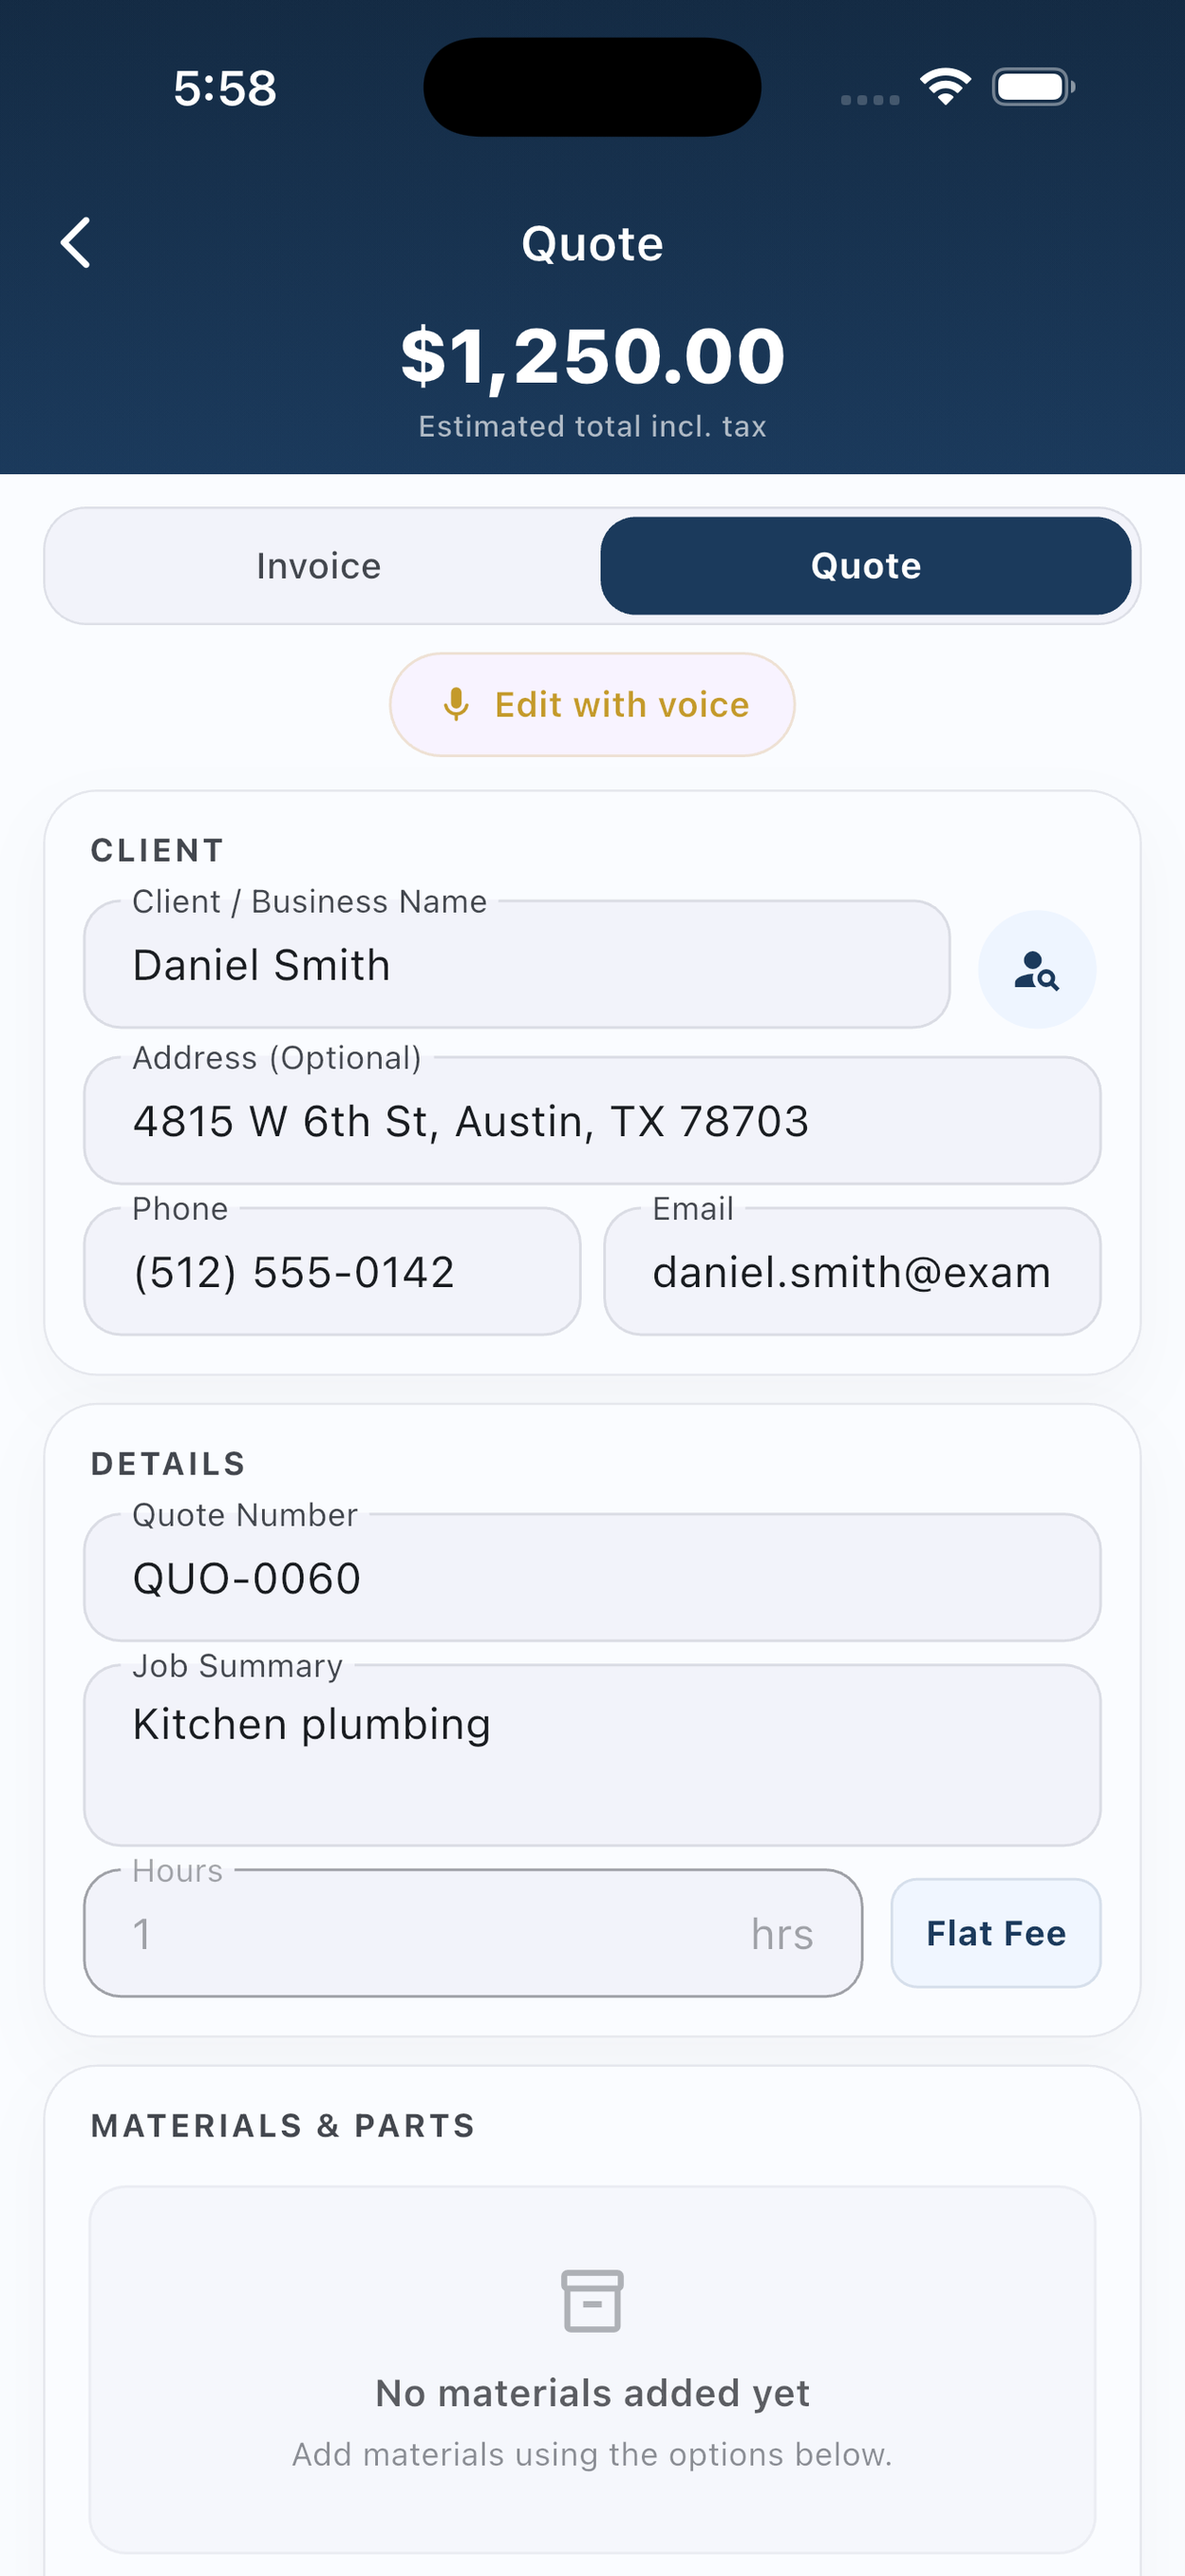
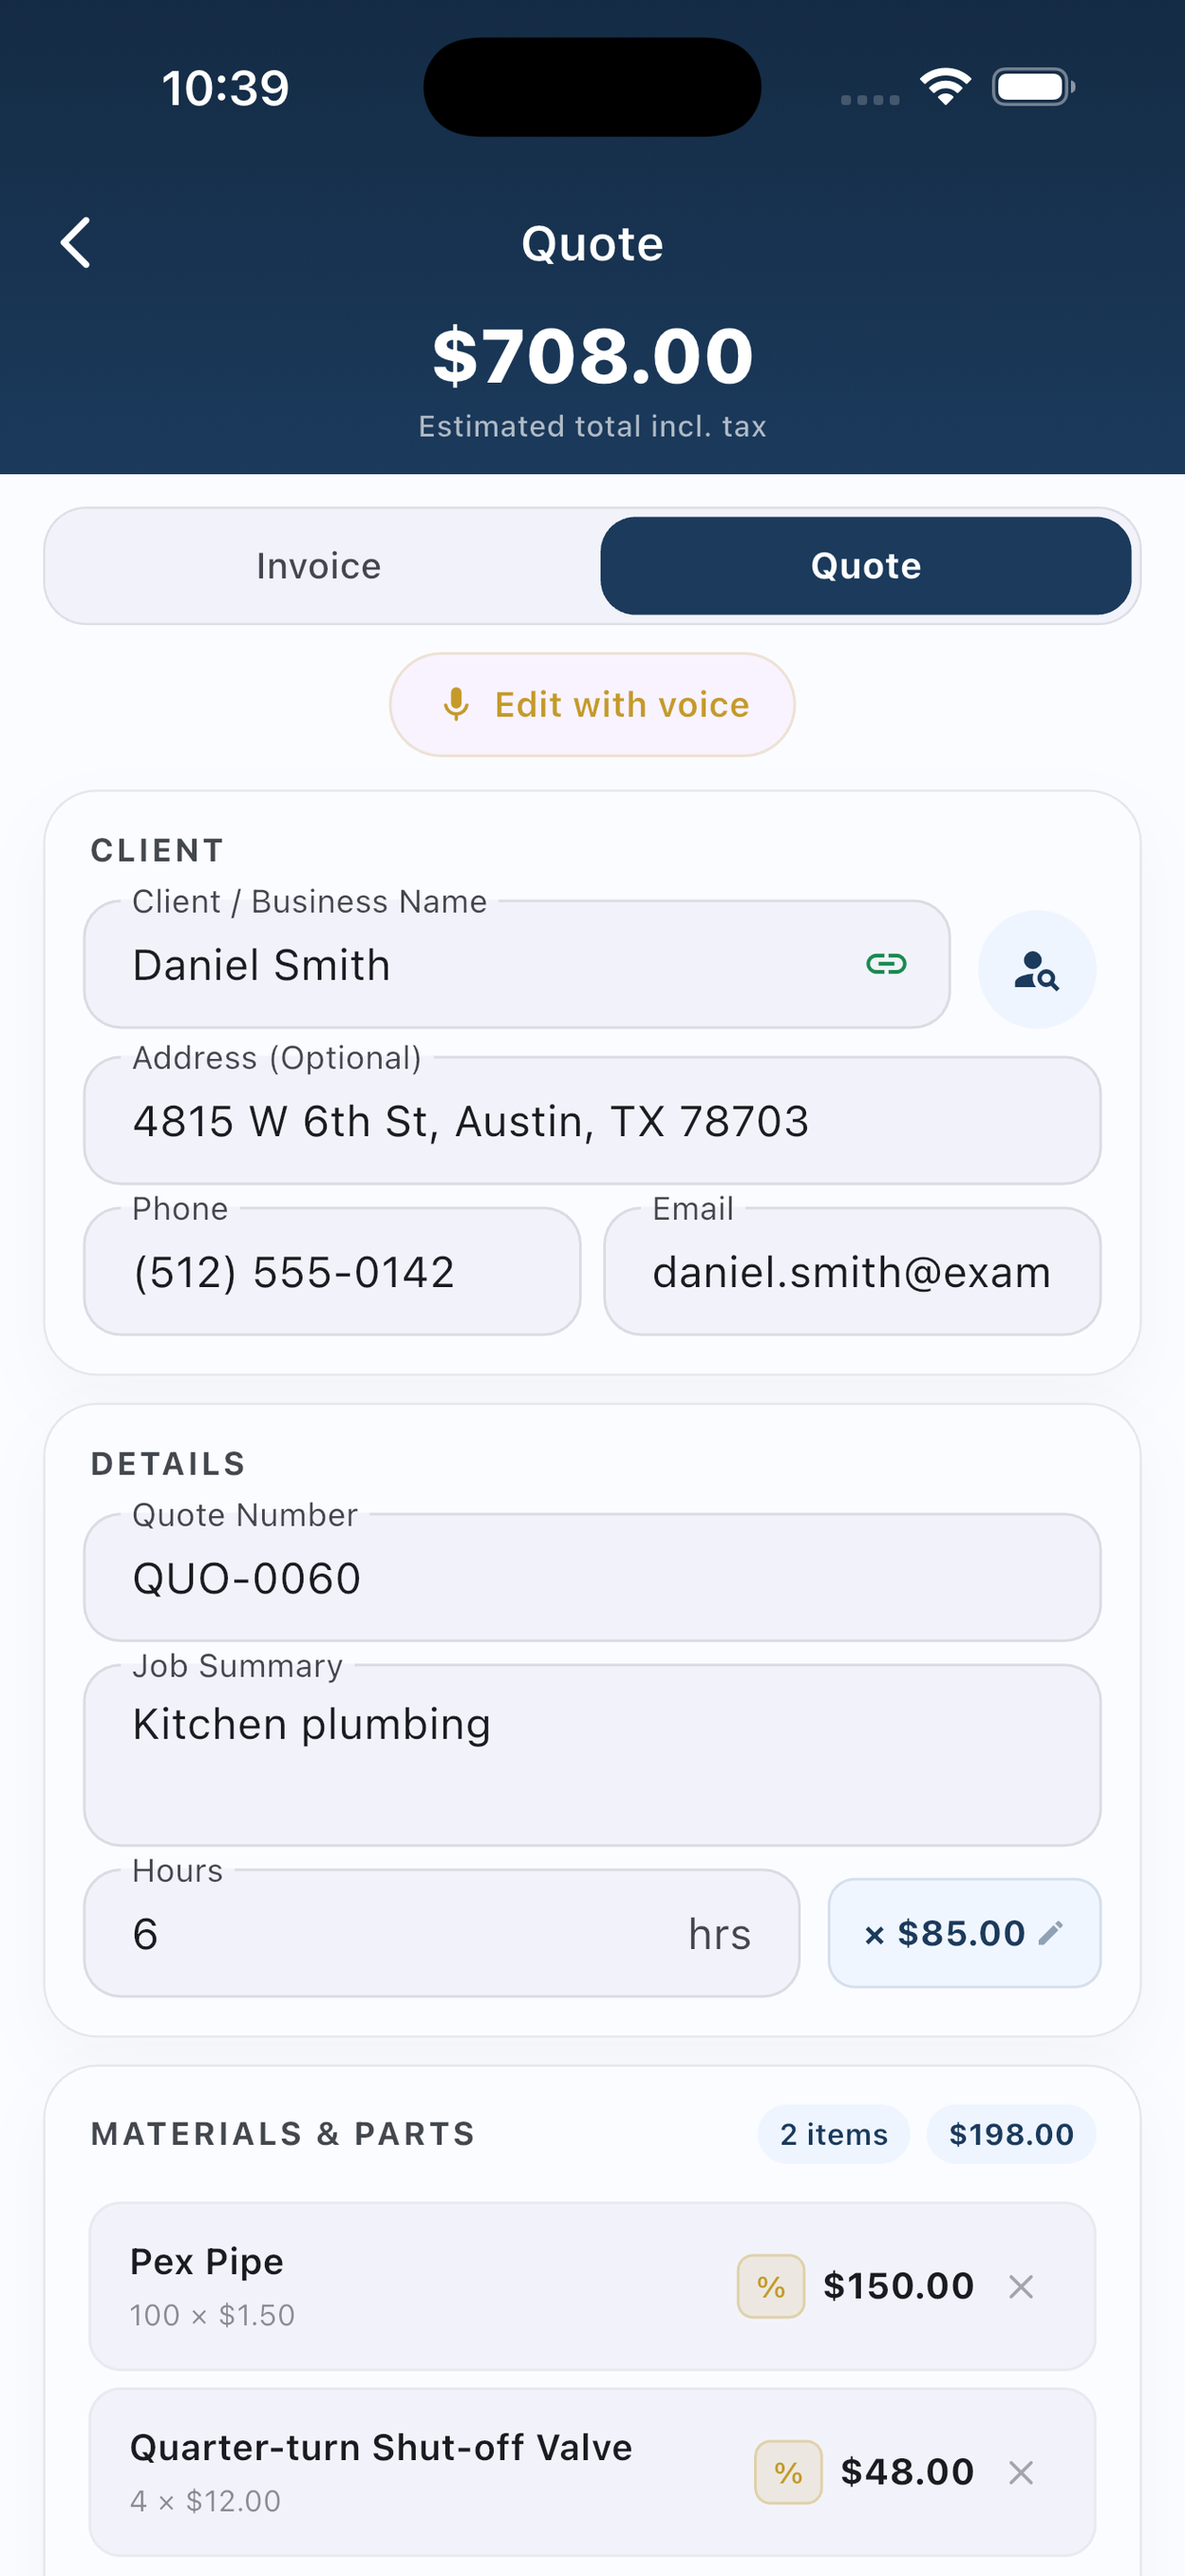
fix: voice-to-invoice content polish + horizontal aux-page footer links
Three things Joshua flagged on the new aux pages:

1. Voice-to-invoice section copy still referenced "Daniel Mowery"
   (and an unhelpful second "Steven $1,200 for the rough-in"
   example). Replaced both with a single richer example that
   previews exactly what the hero screenshot now shows:
     "Quote Daniel Smith for kitchen plumbing — 6 hours of labor,
      plus PEX pipe and shut-off valves."
   Tagline updated to "PicoTally drafts the quote, pre-filled
   with hours, line-itemed materials, and your hourly rate."
   Sibling 'Real questions' example chip also updated
   (Daniel Mowery → Daniel Smith).

2. Re-shot 03-voice-quote-draft to convey max value — the
   Materials & Parts section was empty in the prior cut. The new
   capture is generated by the same chat command quoted in the
   marketing copy. Claude parsed it perfectly on the first try:
     * Client linked to Daniel Smith (address / phone / email
       filled in via Marionette for completeness)
     * Job summary "Kitchen plumbing", 6 hours at $85/hr
     * Materials & Parts: 2 items totalling $198 —
         PEX Pipe         100 × $1.50  = $150.00
         Quarter-turn
         Shut-off Valve    4 × $12.00  = $48.00
     * Estimated total $708.00
   So the hero shot now demonstrates the AI extracting labor,
   hourly rate, and line-itemed materials with quantities and
   prices, not just a flat fee. Captured on the Pro Max
   simulator (1320 native), Lanczos-encoded to 832 (2x) and
[…]

diff --git a/index.html b/index.html
@@ -839,7 +839,7 @@
           <div class="example-q"><em>How much did I spend on copper last quarter?</em></div>
           <div class="example-q"><em>What did I spend at Home Depot in April?</em></div>
           <div class="example-q"><em>Who&rsquo;s late on their invoice?</em></div>
-          <div class="example-q"><em>How much does Daniel Mowery owe me?</em></div>
+          <div class="example-q"><em>How much does Daniel Smith owe me?</em></div>
           <div class="example-q"><em>Show me my unpaid quotes.</em></div>
           <div class="example-q"><em>How much did I collect last month?</em></div>
           <div class="example-q"><em>What&rsquo;s a fair price for a 4-hour electrical job?</em></div>
@@ -854,7 +854,7 @@
           <div class="iphone-screen">
             <picture>
               <source srcset="/screenshots/03-voice-quote-draft.webp 2x, /screenshots/03-voice-quote-draft@3x.webp 3x" type="image/webp">
-              <img src="/screenshots/03-voice-quote-draft.png" srcset="/screenshots/03-voice-quote-draft.png 2x, /screenshots/03-voice-quote-draft@3x.png 3x" alt="Voice-generated quote draft for Daniel Smith with full client details populated — address 4815 W 6th St Austin TX, phone (512) 555-0142, email daniel.smith@example.com — $1,250 flat fee for kitchen plumbing, pre-filled and ready to send" width="832" height="1809" loading="lazy" decoding="async">
+              <img src="/screenshots/03-voice-quote-draft.png" srcset="/screenshots/03-voice-quote-draft.png 2x, /screenshots/03-voice-quote-draft@3x.png 3x" alt="Voice-generated quote draft for Daniel Smith — $708.00 estimated total, 6 hours of kitchen plumbing labor at $85 per hour, plus itemised Materials and Parts: 100 feet of PEX pipe at $1.50 per foot and 4 quarter-turn shut-off valves at $12 each. Client section pre-filled with Daniel's address, phone, and email." width="832" height="1808" loading="lazy" decoding="async">
             </picture>
           </div>
         </div>
@@ -862,7 +862,7 @@
       <div class="feature-text">
         <div class="eyebrow">Voice-to-invoice</div>
         <h2>Speak the invoice into existence.</h2>
-        <p>&ldquo;Quote Daniel Mowery $1,250 for kitchen plumbing.&rdquo; &ldquo;Invoice Steven $1,200 for the rough-in.&rdquo; PicoTally drafts it, pre-filled. You review and send with one tap. Nothing saves without your approval.</p>
+        <p>&ldquo;Quote Daniel Smith for kitchen plumbing &mdash; 6 hours of labor, plus PEX pipe and shut-off valves.&rdquo; PicoTally drafts the quote, pre-filled with hours, line-itemed materials, and your hourly rate. You review and send with one tap. Nothing saves without your approval.</p>
       </div>
     </div>
 

diff --git a/support.html b/support.html
@@ -84,7 +84,7 @@
     .footer-brand img { width: 24px; height: 24px; border-radius: 6px; }
     .footer-brand-name { font-weight: 700; color: #fff; font-size: 16px; letter-spacing: -0.01em; }
     .footer-tag { font-size: 14px; max-width: 260px; line-height: 1.5; color: rgba(255,255,255,0.55); }
-    .footer-links { display: flex; flex-direction: column; gap: 10px; }
+    .footer-links { display: flex; flex-direction: row; gap: 24px; flex-wrap: wrap; }
     .footer-links a { color: rgba(255,255,255,0.7); font-size: 14px; }
     .footer-links a:hover { color: #fff; text-decoration: none; }
     .footer-legal { padding-top: 24px; font-size: 12px; color: rgba(255,255,255,0.4); line-height: 1.6; }

diff --git a/terms.html b/terms.html
@@ -58,7 +58,7 @@
     .footer-brand img { width: 24px; height: 24px; border-radius: 6px; }
     .footer-brand-name { font-weight: 700; color: #fff; font-size: 16px; letter-spacing: -0.01em; }
     .footer-tag { font-size: 14px; max-width: 260px; line-height: 1.5; color: rgba(255,255,255,0.55); }
-    .footer-links { display: flex; flex-direction: column; gap: 10px; }
+    .footer-links { display: flex; flex-direction: row; gap: 24px; flex-wrap: wrap; }
     .footer-links a { color: rgba(255,255,255,0.7); font-size: 14px; }
     .footer-links a:hover { color: #fff; text-decoration: none; }
     .footer-legal { padding-top: 24px; font-size: 12px; color: rgba(255,255,255,0.4); line-height: 1.6; }

diff --git a/privacy.html b/privacy.html
@@ -189,7 +189,7 @@
     .footer-brand img { width: 24px; height: 24px; border-radius: 6px; }
     .footer-brand-name { font-weight: 700; color: #fff; font-size: 16px; letter-spacing: -0.01em; }
     .footer-tag { font-size: 14px; max-width: 260px; line-height: 1.5; color: rgba(255,255,255,0.55); }
-    .footer-links { display: flex; flex-direction: column; gap: 10px; }
+    .footer-links { display: flex; flex-direction: row; gap: 24px; flex-wrap: wrap; }
     .footer-links a { color: rgba(255,255,255,0.7); font-size: 14px; }
     .footer-links a:hover { color: #fff; text-decoration: none; }
     .footer-legal {
